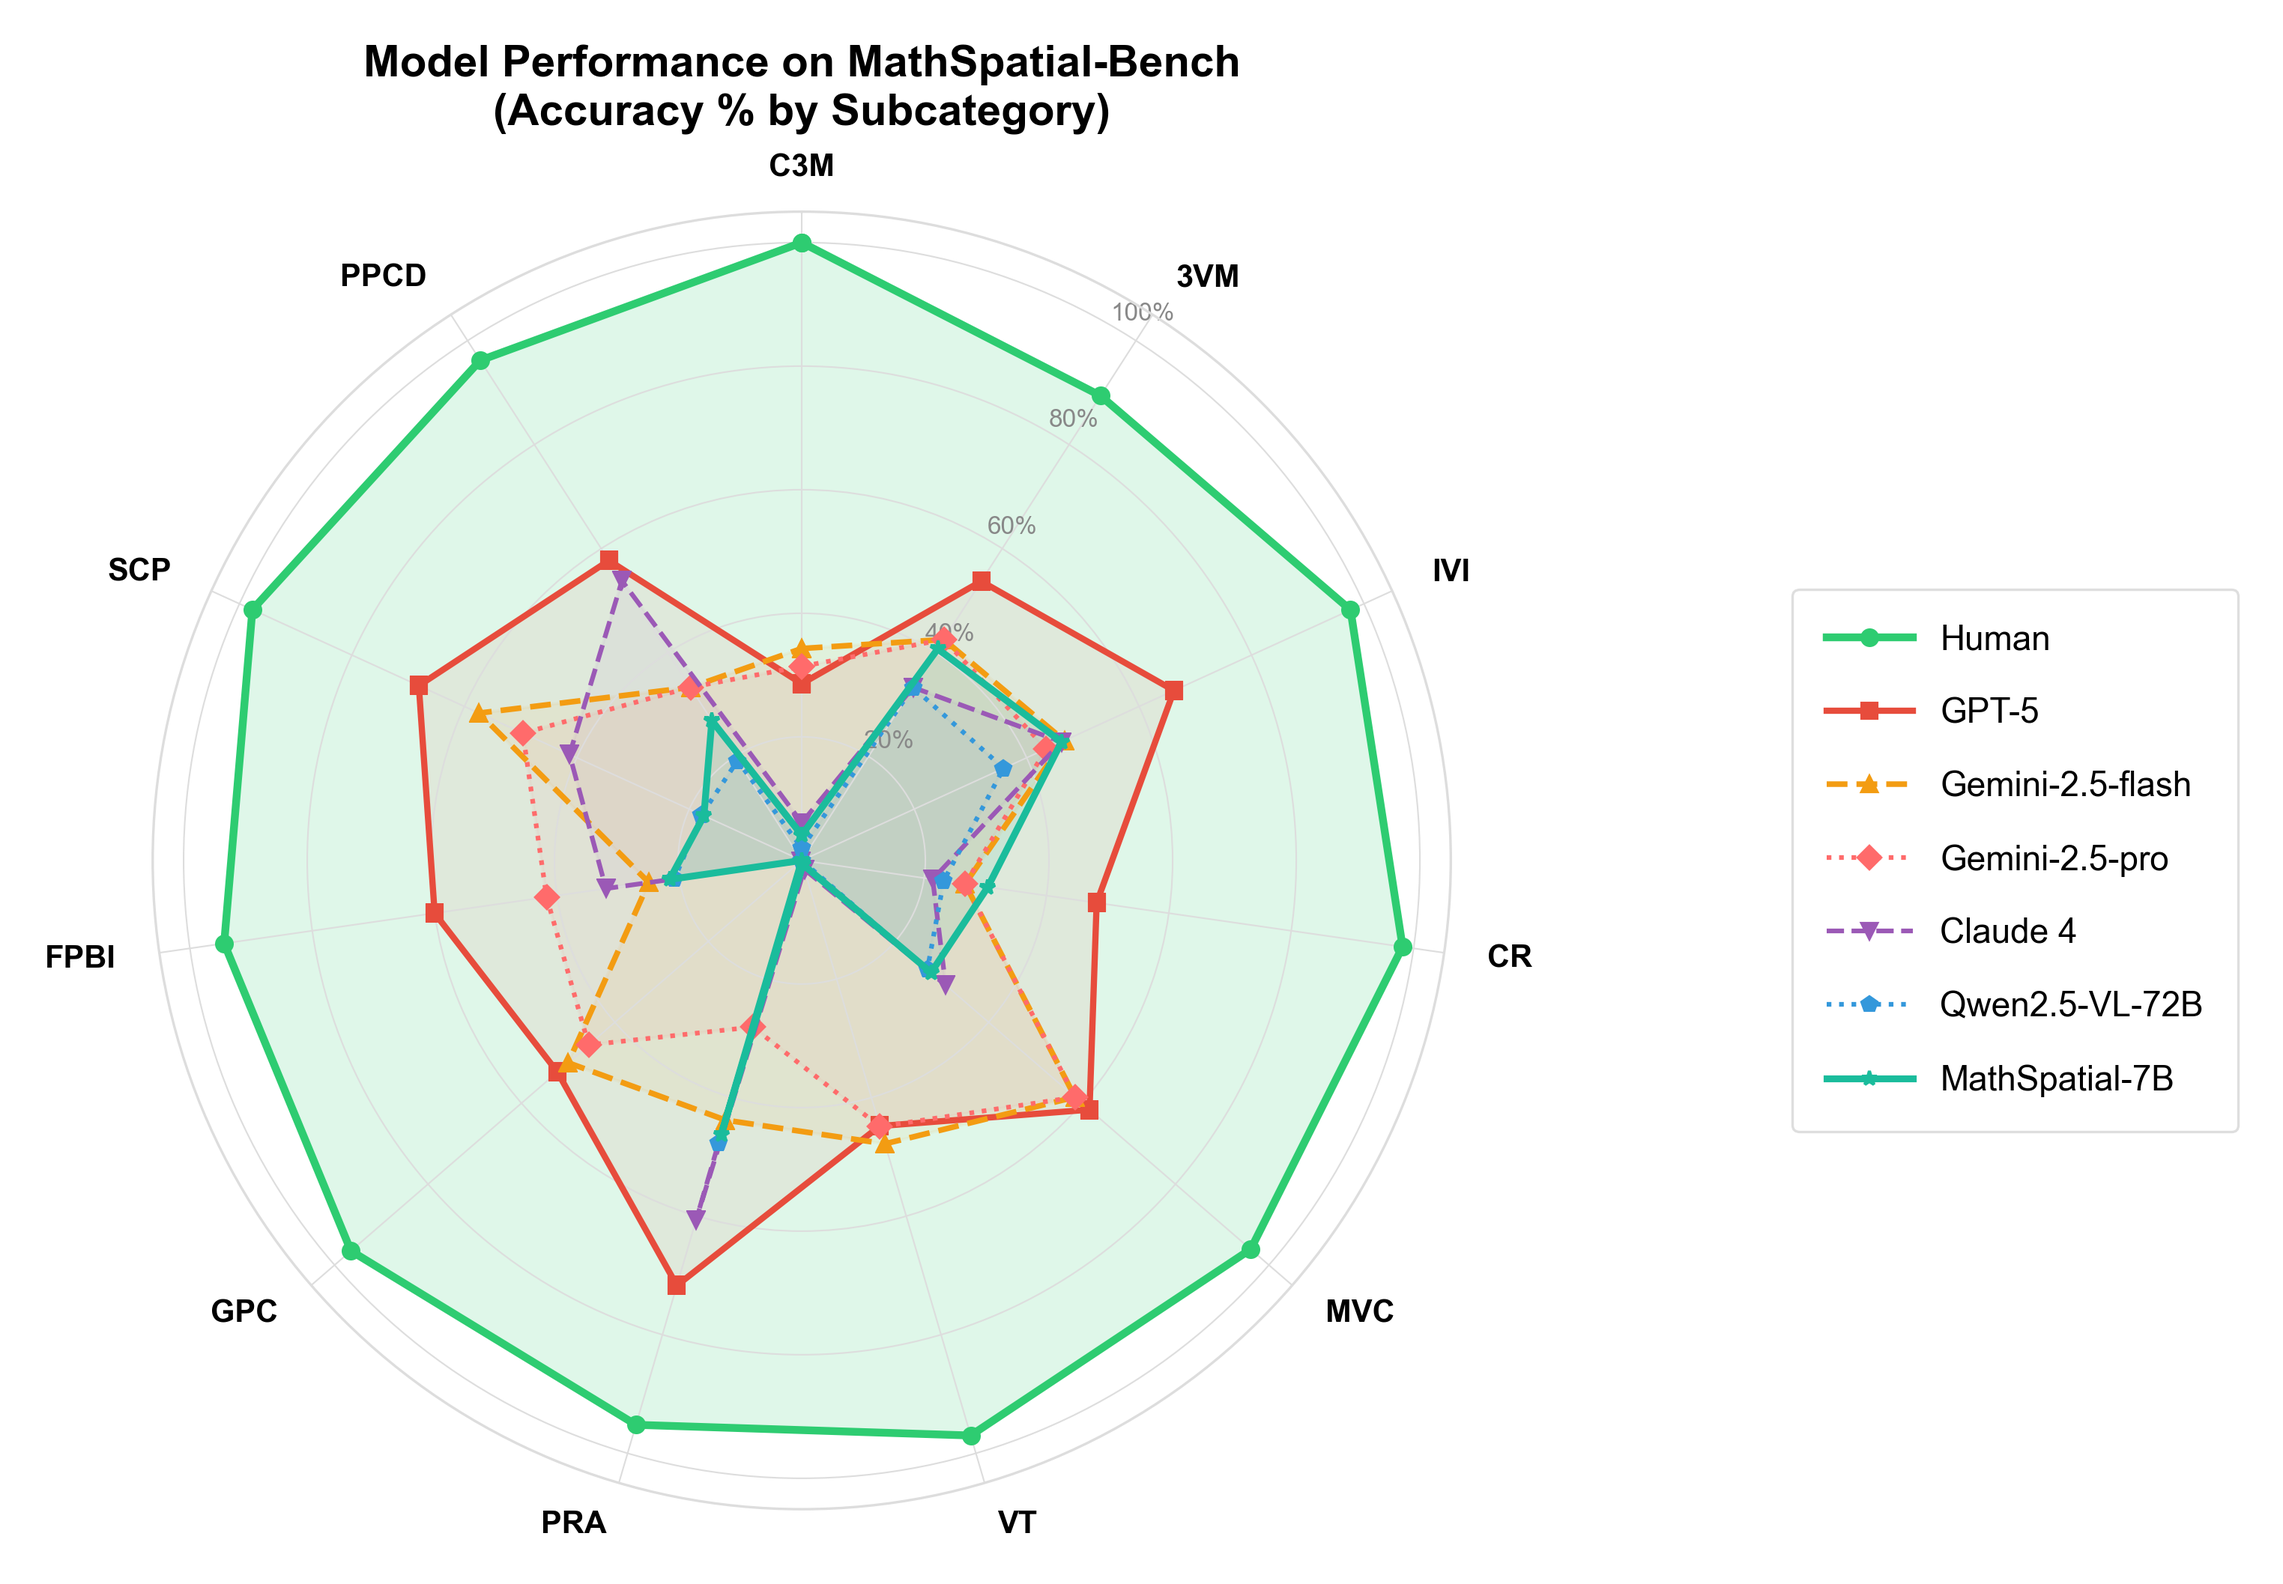
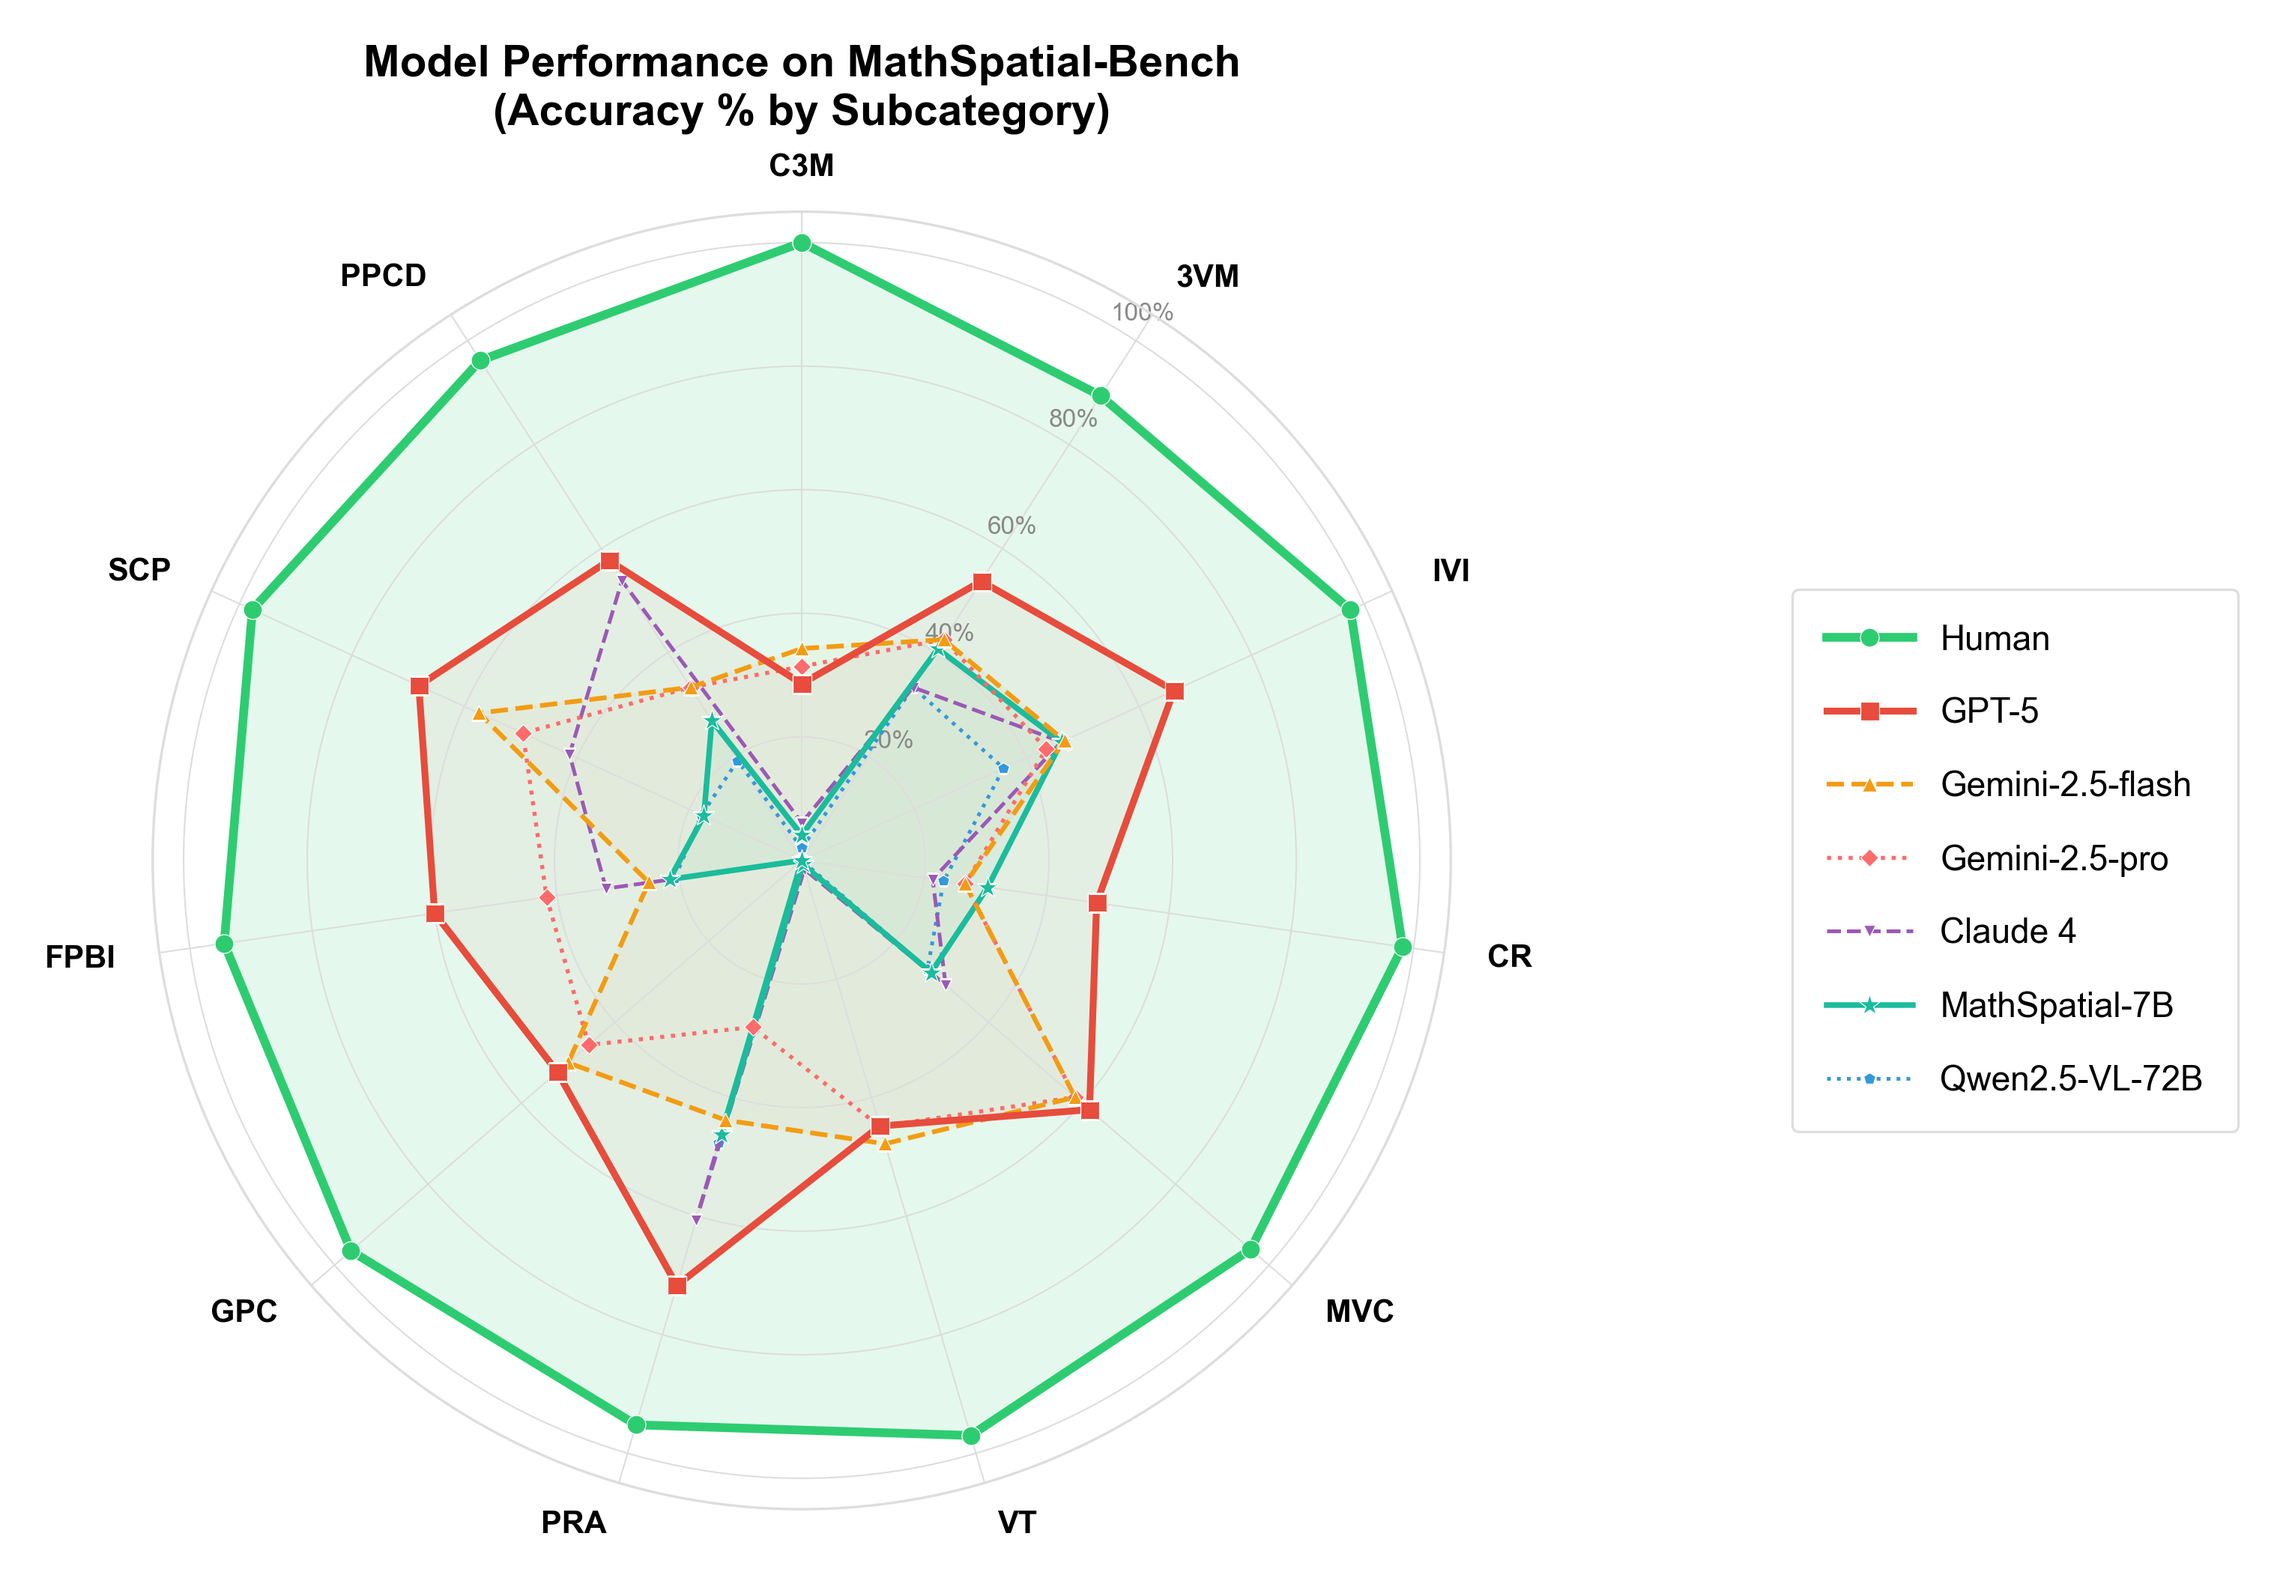
Improve radar chart: better differentiation near origin
- Draw models from low-to-high score so top performers render on top
- Low-score models: thinner lines (1.2px), smaller markers (4px), no fill
- High-score models: thicker lines (2.2-2.8px), larger markers (6-7px), with fill
- Add white marker edges for better separation at data point clusters
- More distinct linestyle combinations (solid/dashed/dotted)
- Legend reordered: Human first, then descending by overall score

diff --git a/index.html b/index.html
@@ -271,7 +271,7 @@
     </p>
 
     <div class="img-showcase animate-on-scroll" style="margin-bottom:48px;">
-      <img src="static/images/fig_radar_models.png?v=1775455885" alt="Radar Chart" style="max-width:800px; border-radius:16px;" loading="lazy">
+      <img src="static/images/fig_radar_models.png?v=1775455888" alt="Radar Chart" style="max-width:800px; border-radius:16px;" loading="lazy">
     </div>
 
     <div class="leaderboard-controls animate-on-scroll">
